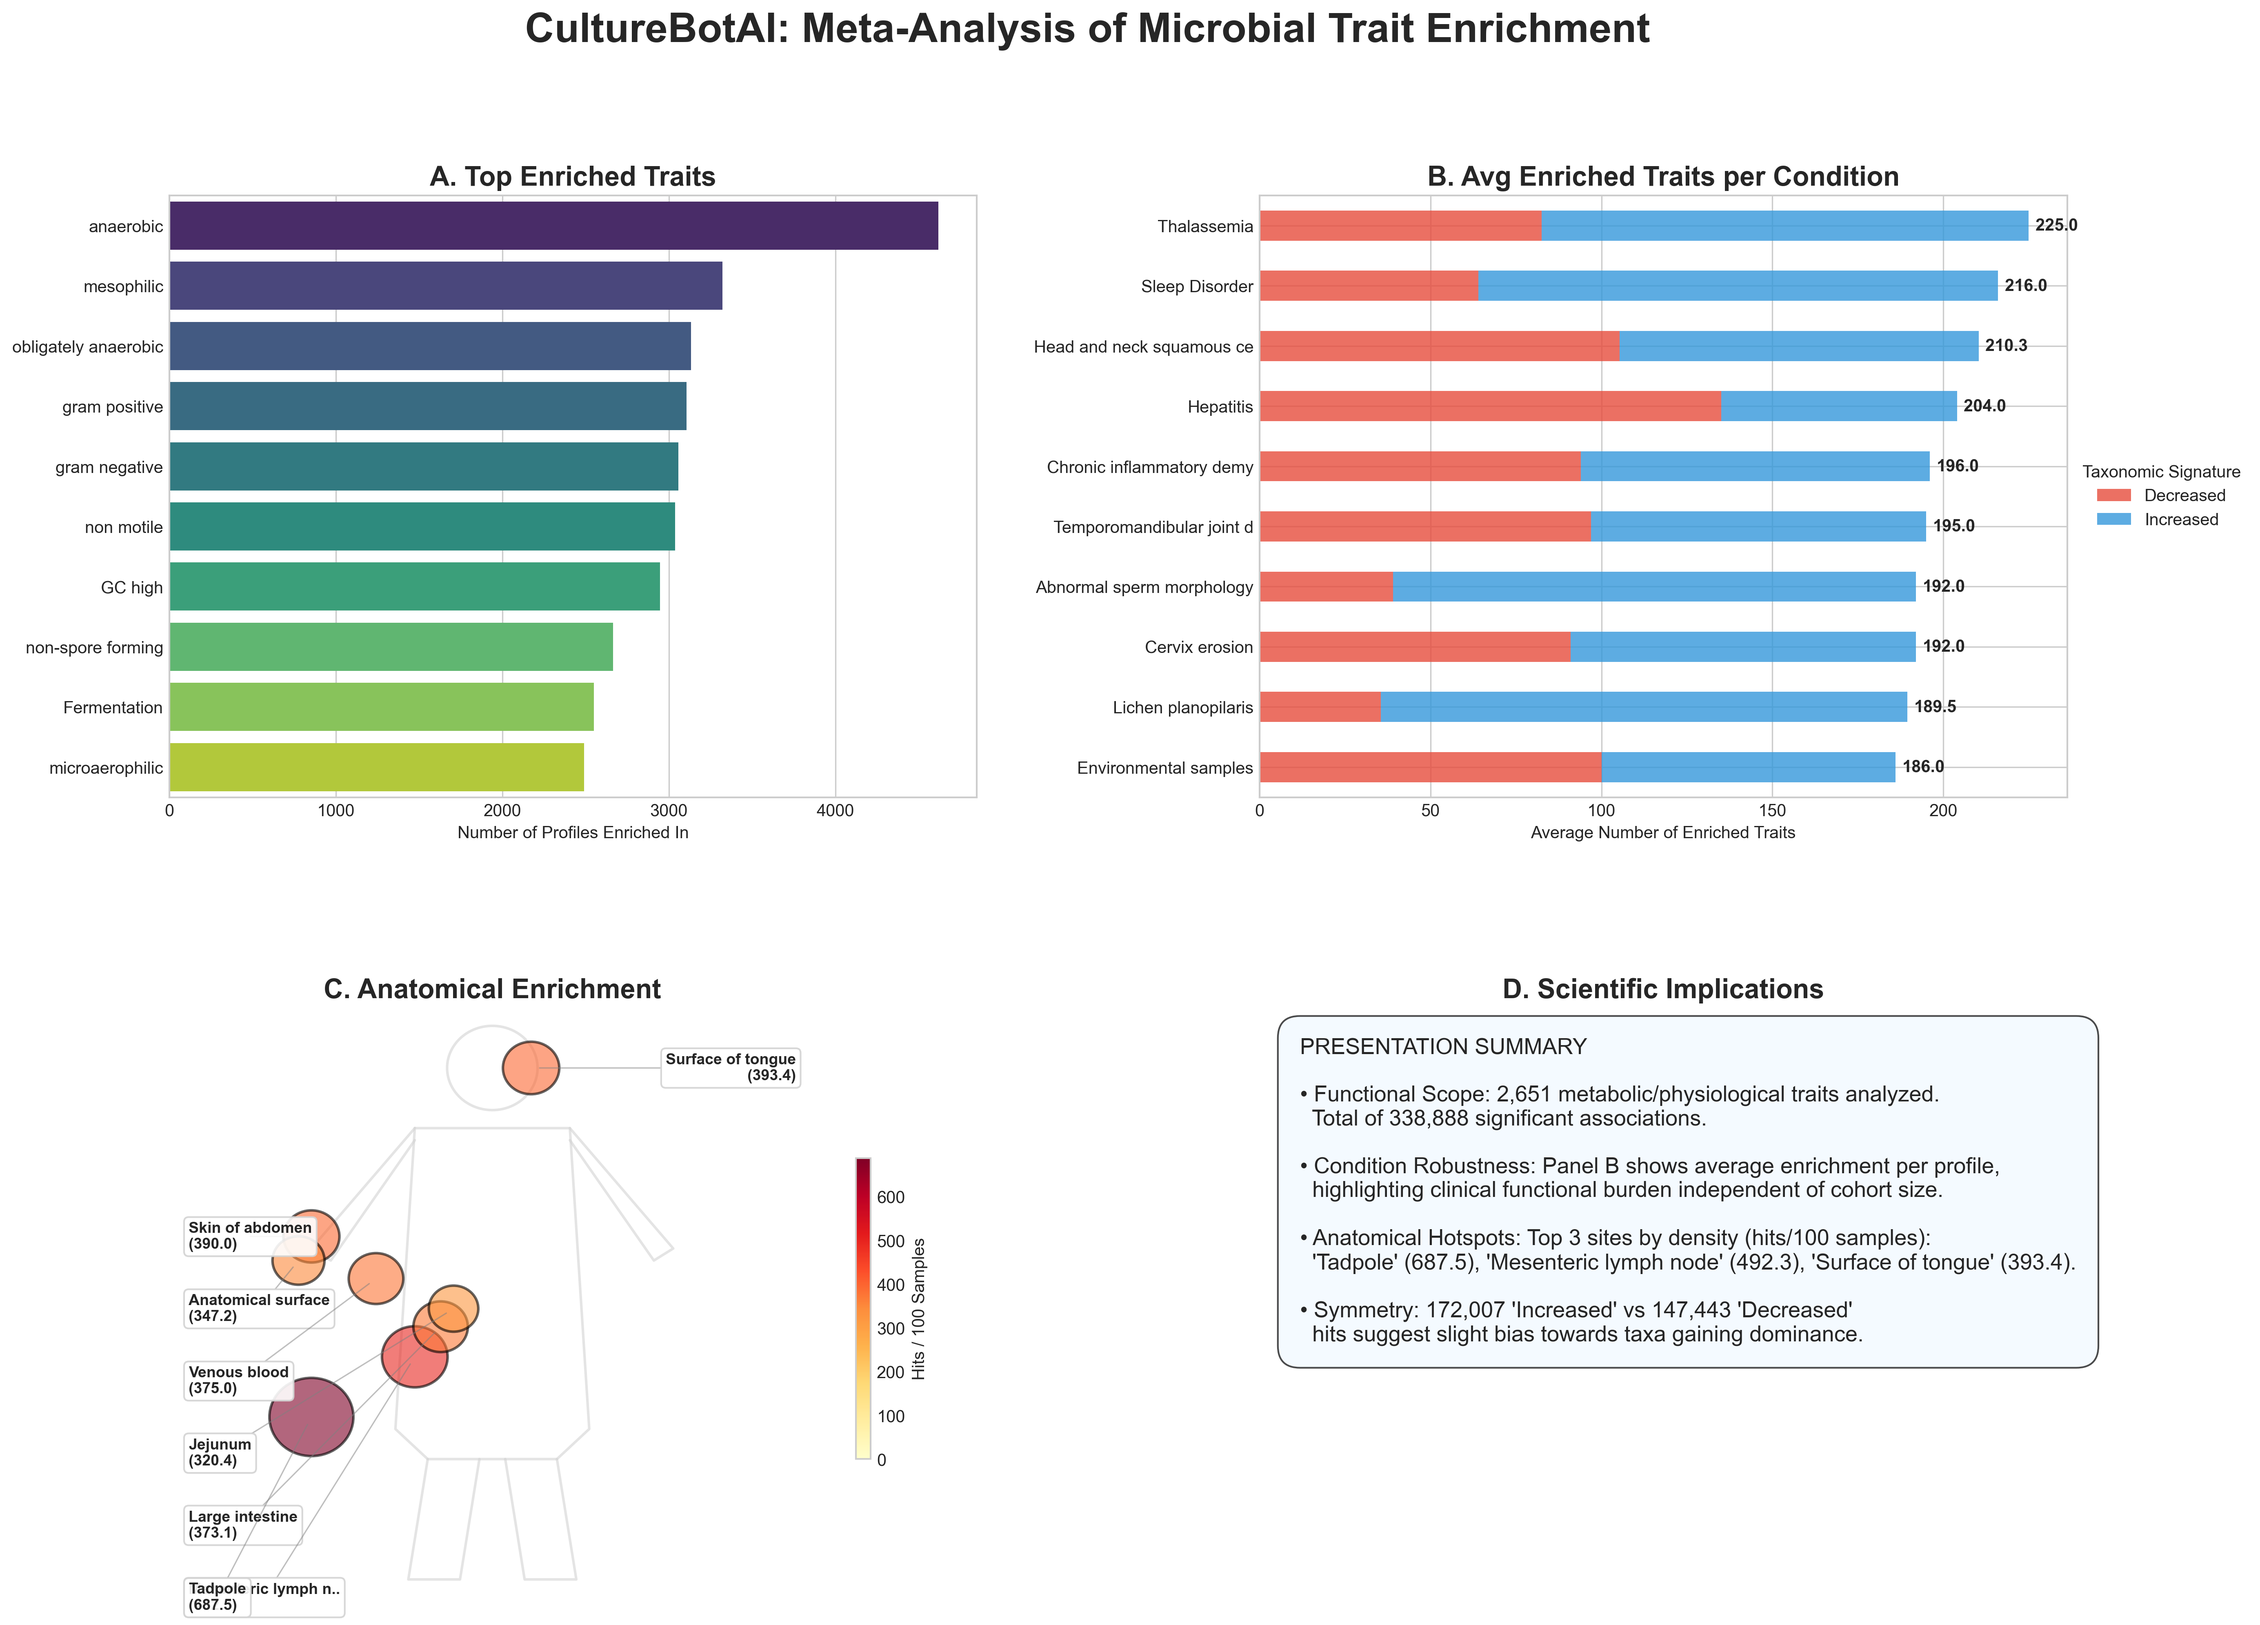
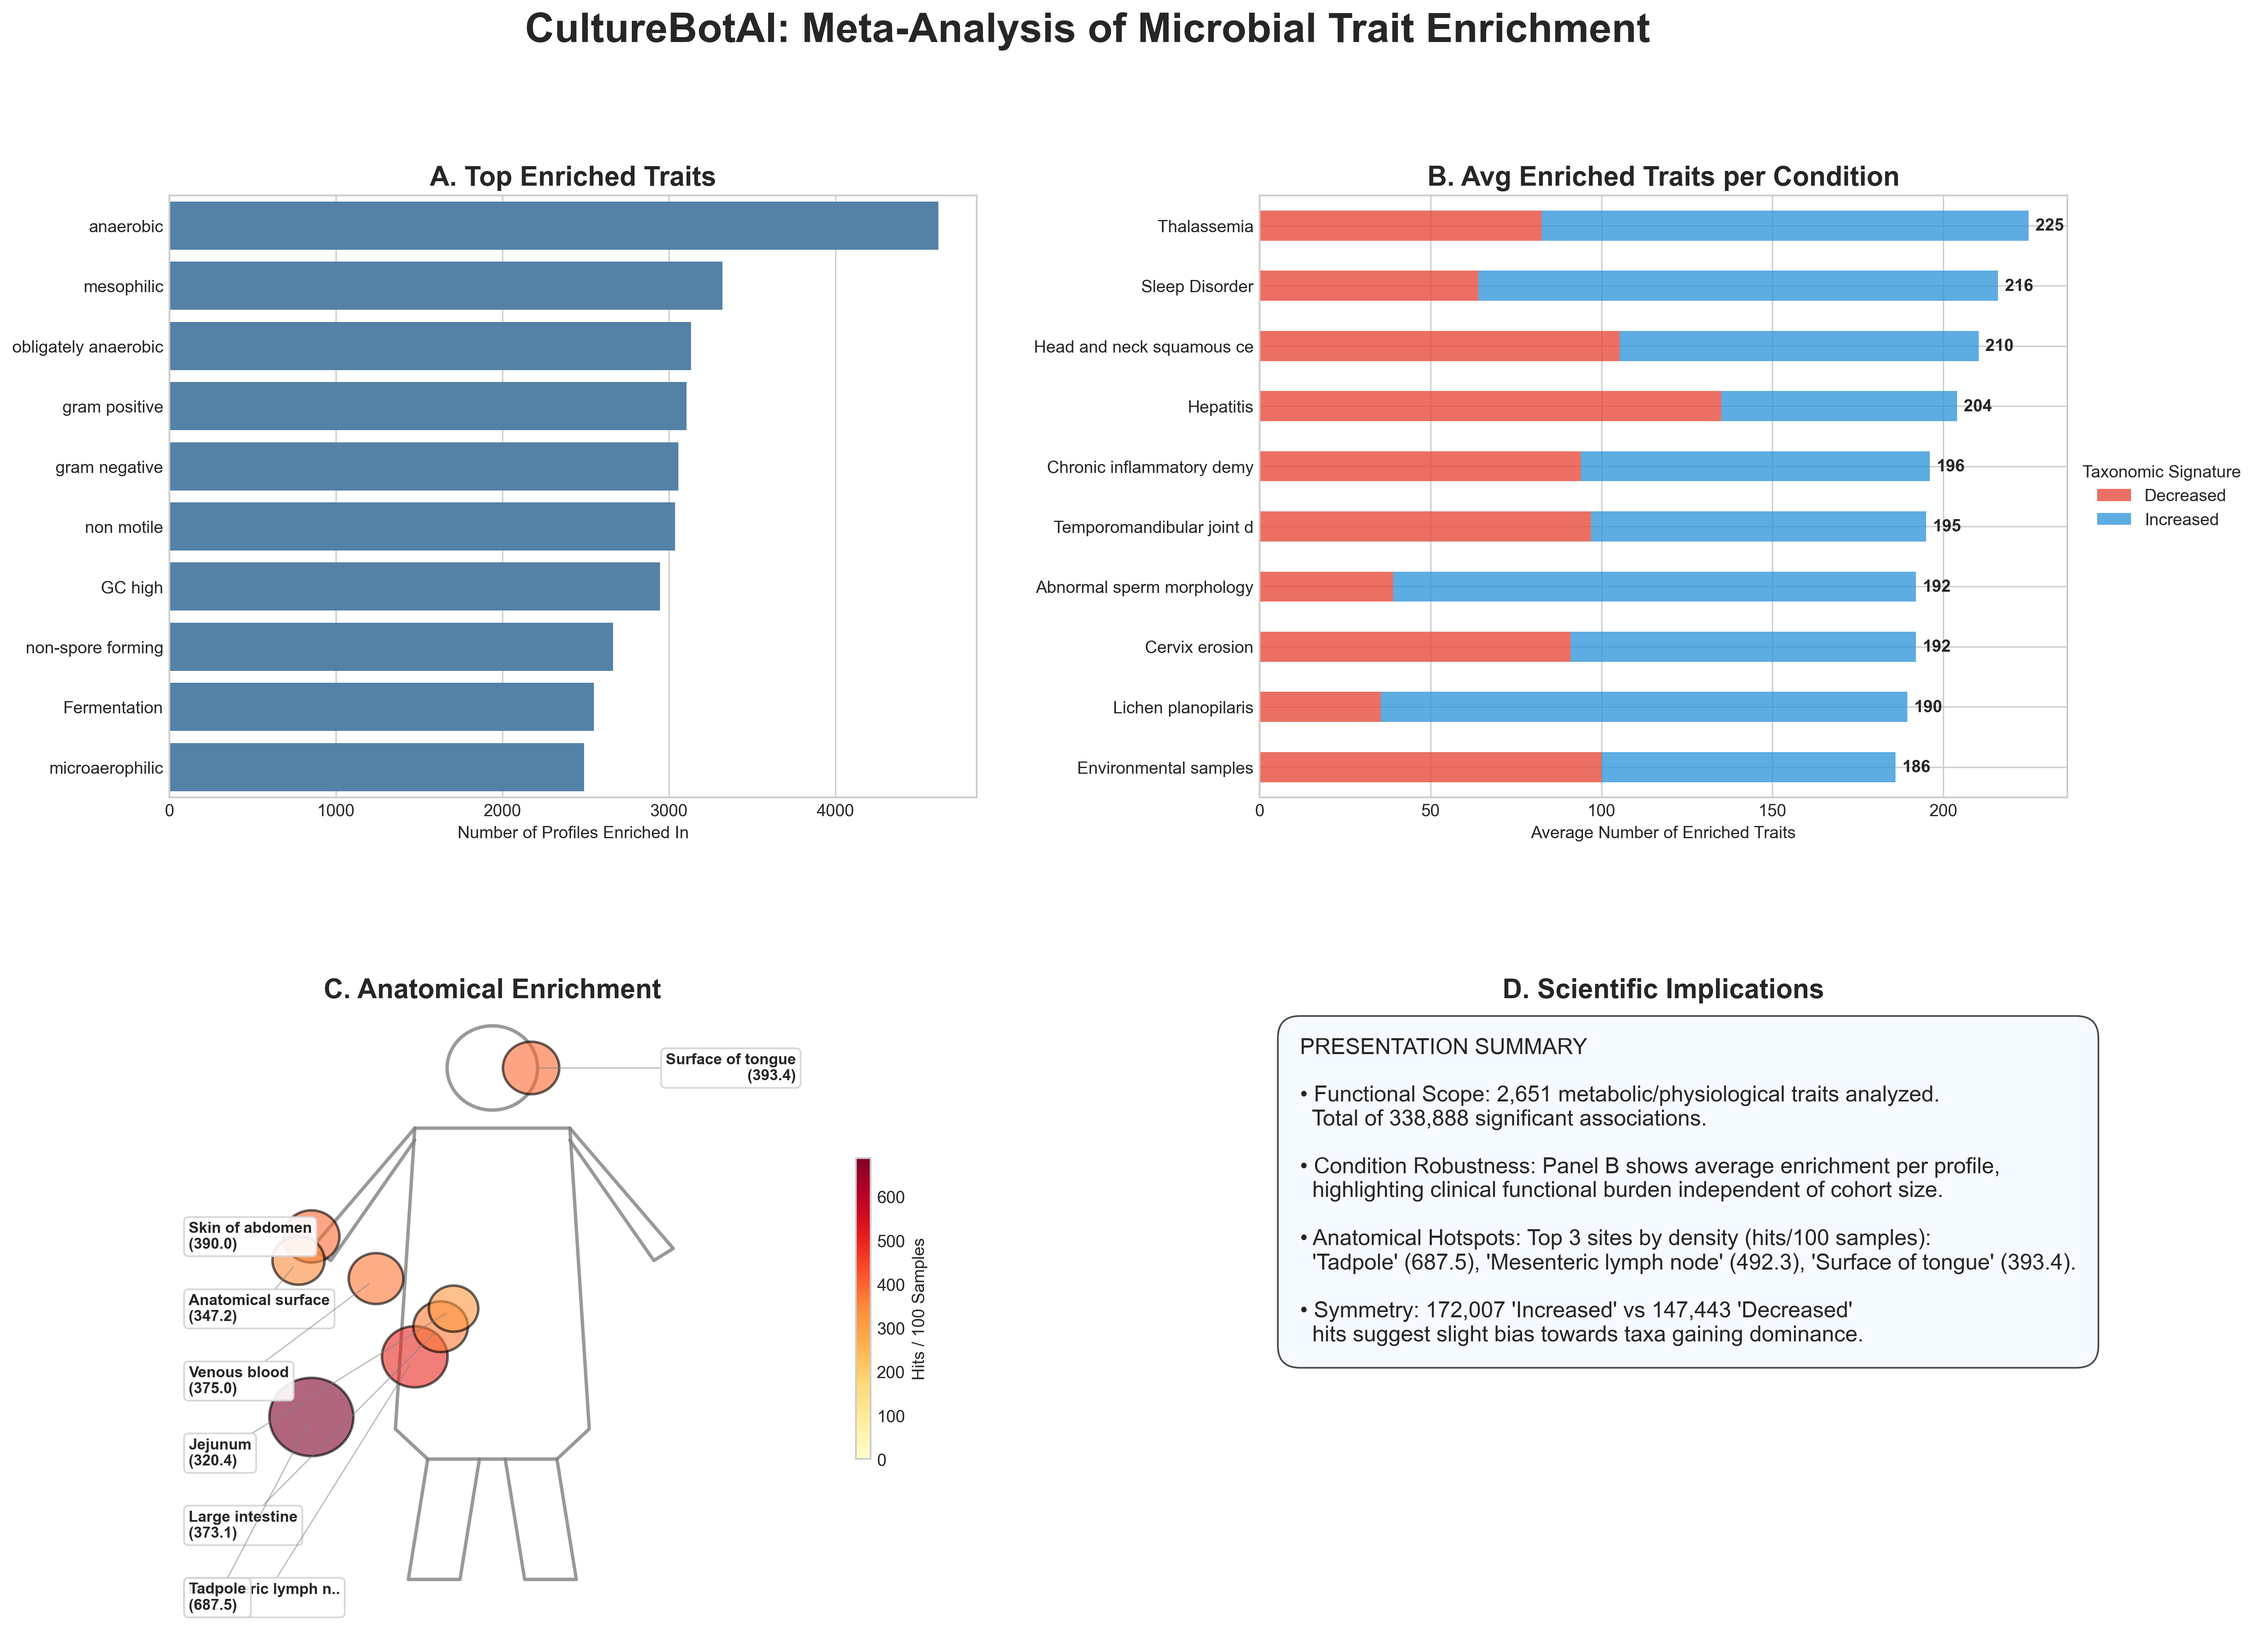
histogram plot based on condition and updated infographic

Changed region(s): [[0.0625, 0.1246, 0.4374, 0.4982], [0.25, 0.6851, 0.2812, 0.7474], [0.1562, 0.6851, 0.1875, 0.7474]]

diff --git a/scripts/plot_enrichment_histograms.py b/scripts/plot_enrichment_histograms.py
@@ -26,6 +26,12 @@ def parse_args():
         help="Path to the full study trait profiles wide TSV."
     )
     parser.add_argument(
+        "--experiments",
+        type=Path,
+        default=Path("data/derived/experiments.tsv"),
+        help="Path to the experiments metadata TSV."
+    )
+    parser.add_argument(
         "--output-dir",
         type=Path,
         default=Path("data/derived"),
@@ -42,7 +48,27 @@ def main():
         print(f"Error: Results file {args.results} not found.")
         return
     results_df = pd.read_csv(args.results, sep="\t")
-    
+
+    # Load experiments metadata for stacking by condition/anatomy
+    print(f"Loading experiment metadata from {args.experiments}...")
+    if args.experiments.exists():
+        exp_df = pd.read_csv(args.experiments, sep="\t")
+        # Ensure we only have the columns we need to avoid duplicates if study_tsv was run multiple times
+        exp_df = exp_df[["study_id", "experiment_id", "condition", "body_site"]].drop_duplicates()
+        
+        # Merge with results
+        results_with_meta = results_df.merge(exp_df, on=["study_id", "experiment_id"], how="left")
+        
+        # Fill missing with "Unknown"
+        results_with_meta["condition"] = results_with_meta["condition"].fillna("Unknown")
+        results_with_meta["body_site"] = results_with_meta["body_site"].fillna("Unknown")
+        
+        # Create combined category
+        results_with_meta["category"] = results_with_meta["condition"] + " (" + results_with_meta["body_site"] + ")"
+    else:
+        print(f"Warning: Experiments file {args.experiments} not found. Skipping metadata-based plots.")
+        results_with_meta = None
+
     # 1. Y-Axis: Profile Depth (How many traits are enriched in each profile?)
     # Group by profile and direction
     profile_trait_counts = results_df.groupby(["study_id", "experiment_id", "inc_dec"])["trait"].nunique().reset_index()
@@ -160,6 +186,71 @@ def main():
     print(f"Wrote stacked trait plot to {trait_plot_path}")
     plt.close()
     
+    # 3. X-Axis: Trait Frequency Stacked by Condition/Anatomy (Separate Plot)
+    if results_with_meta is not None:
+        print("Creating Trait Frequency plot stacked by Condition and Anatomy...")
+        plt.figure(figsize=(14, 8))
+        
+        # Identify top categories for the legend, group the rest as "Other"
+        top_n = 12
+        cat_counts = results_with_meta["category"].value_counts()
+        top_cats = cat_counts.head(top_n).index.tolist()
+        
+        results_with_meta["plot_category"] = results_with_meta["category"].apply(
+            lambda x: x if x in top_cats else "Other"
+        )
+        
+        # We need the same bins as the previous X plot
+        # active_traits["total"] contains the frequency per trait
+        trait_to_total = active_traits["total"].to_dict()
+        results_with_meta["trait_freq"] = results_with_meta["trait"].map(trait_to_total)
+        
+        # Assign to bins
+        results_with_meta["bin_idx"] = pd.cut(
+            results_with_meta["trait_freq"],
+            bins=bins_x,
+            labels=False,
+            include_lowest=True
+        )
+        
+        # Group by bin and plot_category
+        trait_cat_binned = results_with_meta.groupby(["bin_idx", "plot_category"]).size().unstack(fill_value=0)
+        
+        # Reindex to ensure all bins are represented
+        trait_cat_binned = trait_cat_binned.reindex(range(num_bins), fill_value=0)
+        
+        # Sort columns so "Other" is last and others are consistent (e.g. by total frequency)
+        other_col = [c for c in trait_cat_binned.columns if c == "Other"]
+        main_cols = sorted([c for c in trait_cat_binned.columns if c != "Other"])
+        trait_cat_binned = trait_cat_binned[main_cols + other_col]
+        
+        # Use a more diverse color palette for many categories
+        cat_colors = sns.color_palette("husl", len(trait_cat_binned.columns))
+        
+        ax_x_cat = trait_cat_binned.plot(
+            kind="bar",
+            stacked=True,
+            width=0.8,
+            color=cat_colors,
+            ax=plt.gca()
+        )
+        
+        plt.title(f"Trait Enrichment Frequency by Condition & Anatomy (X-Axis)\nStacked by top {top_n} categories", pad=15)
+        plt.xlabel("Number of Profiles Enriched In (Binned)")
+        plt.ylabel("Total Enrichment Hits (log10 scale)")
+        plt.yscale("log")
+        
+        plt.xticks(tick_indices, [bin_labels_x[i] for i in tick_indices], rotation=45)
+        
+        # Place legend outside to the right
+        plt.legend(title="Condition (Anatomy)", bbox_to_anchor=(1.05, 1), loc='upper left')
+        plt.grid(axis='y', which='both', linestyle='-', alpha=0.3)
+        
+        trait_cat_plot_path = args.output_dir / "trait_enrichment_x_condition_site_histogram.png"
+        plt.savefig(trait_cat_plot_path, dpi=300, bbox_inches="tight")
+        print(f"Wrote stacked trait condition plot to {trait_cat_plot_path}")
+        plt.close()
+
     # Save summary counts
     active_traits.to_csv(args.output_dir / "trait_enrichment_counts_stacked.tsv", sep="\t")
     active_profiles.to_csv(args.output_dir / "profile_enrichment_counts_stacked.tsv", sep="\t")

diff --git a/scripts/generate_enrichment_summary.py b/scripts/generate_enrichment_summary.py
@@ -184,7 +184,7 @@ def main():
 
     # Panel A: Top 10 Traits (Shortened Labels)
     ax1 = fig.add_subplot(gs[0, 0])
-    sns.barplot(data=top_traits, x="enrichment_count", y="description", hue="description", palette="viridis", ax=ax1, legend=False)
+    sns.barplot(data=top_traits, x="enrichment_count", y="description", color="steelblue", ax=ax1)
     ax1.set_title("A. Top Enriched Traits", fontsize=16, fontweight='bold')
     ax1.set_xlabel("Number of Profiles Enriched In")
     ax1.set_ylabel("")
@@ -201,7 +201,7 @@ def main():
     for i, (idx, row) in enumerate(plot_data_b.iterrows()):
         total = row.sum()
         if total > 0:
-            ax2.text(total + 2, i, f"{total:.1f}", va='center', fontsize=10, fontweight='bold')
+            ax2.text(total + 2, i, f"{round(total)}", va='center', fontsize=10, fontweight='bold')
             
     ax2.set_title("B. Avg Enriched Traits per Condition", fontsize=16, fontweight='bold')
     ax2.set_xlabel("Average Number of Enriched Traits")
@@ -225,21 +225,32 @@ def main():
             'Saliva,Dental plaque': (0.54, 0.87),
             'Subgingival dental plaque,Saliva': (0.56, 0.84),
             'Saliva,Supragingival dental plaque,Buccal mucosa,Tongue': (0.54, 0.81),
+            'Dental plaque': (0.54, 0.87),
             # Gut / lower torso — left side
             'Meconium,Feces': (0.48, 0.35),
+            'Meconium': (0.48, 0.35),
             'Mesenteric lymph node': (0.38, 0.42),
             'Large intestine': (0.42, 0.47),
             'Jejunum': (0.44, 0.50),
             'Ileum,Jejunum': (0.46, 0.53),
             'Mucosa of ascending colon': (0.42, 0.44),
+            'Caecum': (0.46, 0.42),
+            'Rectum': (0.48, 0.30),
             # Skin / external — left arm / side
             'Skin of abdomen': (0.22, 0.62),
+            'Axilla skin': (0.20, 0.65),
+            'Skin of body': (0.22, 0.58),
             'Anatomical surface': (0.2, 0.58),
             'Body external integument structure': (0.2, 0.54),
             'Bulbar conjunctiva': (0.22, 0.72),
             'Pinna': (0.22, 0.76),
+            # Respiratory
+            'Middle nasal meatus': (0.45, 0.88),
             # Blood / systemic — left torso
             'Venous blood': (0.32, 0.55),
+            # Reproductive / Other
+            'Ovary': (0.52, 0.32),
+            'Rumen': (0.42, 0.38),
             # Exoskeleton / mucus — right arm
             'Mucus,Exoskeleton': (0.78, 0.65),
             # Tadpole — lower left (non-human host)
@@ -249,15 +260,15 @@ def main():
         # Draw improved body outline
         t = np.linspace(0, 2*np.pi, 100)
         # Head
-        ax3.plot(0.5 + 0.07*np.cos(t), 0.9 + 0.07*np.sin(t), color='lightgray', lw=1.5, alpha=0.6)
+        ax3.plot(0.5 + 0.07*np.cos(t), 0.9 + 0.07*np.sin(t), color='gray', lw=2.0, alpha=0.8)
         # Torso
-        ax3.plot([0.38, 0.62, 0.65, 0.6, 0.4, 0.35, 0.38], [0.8, 0.8, 0.3, 0.25, 0.25, 0.3, 0.8], color='lightgray', lw=1.5, alpha=0.6)
+        ax3.plot([0.38, 0.62, 0.65, 0.6, 0.4, 0.35, 0.38], [0.8, 0.8, 0.3, 0.25, 0.25, 0.3, 0.8], color='gray', lw=2.0, alpha=0.8)
         # Legs
-        ax3.plot([0.4, 0.37, 0.45, 0.48], [0.25, 0.05, 0.05, 0.25], color='lightgray', lw=1.5, alpha=0.6)
-        ax3.plot([0.6, 0.63, 0.55, 0.52], [0.25, 0.05, 0.05, 0.25], color='lightgray', lw=1.5, alpha=0.6)
+        ax3.plot([0.4, 0.37, 0.45, 0.48], [0.25, 0.05, 0.05, 0.25], color='gray', lw=2.0, alpha=0.8)
+        ax3.plot([0.6, 0.63, 0.55, 0.52], [0.25, 0.05, 0.05, 0.25], color='gray', lw=2.0, alpha=0.8)
         # Arms
-        ax3.plot([0.38, 0.22, 0.25, 0.38], [0.8, 0.6, 0.58, 0.78], color='lightgray', lw=1.5, alpha=0.6)
-        ax3.plot([0.62, 0.78, 0.75, 0.62], [0.8, 0.6, 0.58, 0.78], color='lightgray', lw=1.5, alpha=0.6)
+        ax3.plot([0.38, 0.22, 0.25, 0.38], [0.8, 0.6, 0.58, 0.78], color='gray', lw=2.0, alpha=0.8)
+        ax3.plot([0.62, 0.78, 0.75, 0.62], [0.8, 0.6, 0.58, 0.78], color='gray', lw=2.0, alpha=0.8)
 
         plot_sites = body_site_density.head(8).copy()
         max_d = plot_sites['density'].max()
@@ -274,9 +285,9 @@ def main():
             if site in site_coords:
                 coord = site_coords[site]
             else:
-                # 2. Substring fallback: prefer longer keys (more specific) first
+                # 2. Substring fallback: check if site is in key OR key is in site
                 for key in sorted(site_coords, key=len, reverse=True):
-                    if key.lower() in site_lower:
+                    if key.lower() in site_lower or site_lower in key.lower():
                         coord = site_coords[key]
                         break
             if coord:

diff --git a/scripts/create_trait_enrichment_heatmap.py b/scripts/create_trait_enrichment_heatmap.py
@@ -456,7 +456,7 @@ def save_heatmap(matrix: pd.DataFrame, profile_meta: pd.DataFrame, output_path: 
     fig_height = min(48, max(20, row_count * 0.02))
 
     # Set background color for masked cells to light gray so hits pop out
-    plt.rcParams['axes.facecolor'] = '#f0f0f0'
+    plt.rcParams["axes.facecolor"] = "#f0f0f0"
 
     cluster = sns.clustermap(
         matrix,
